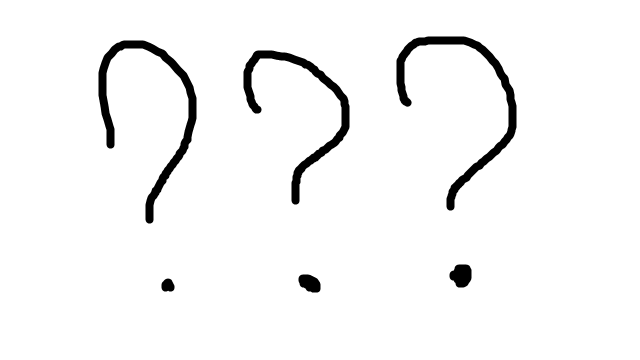
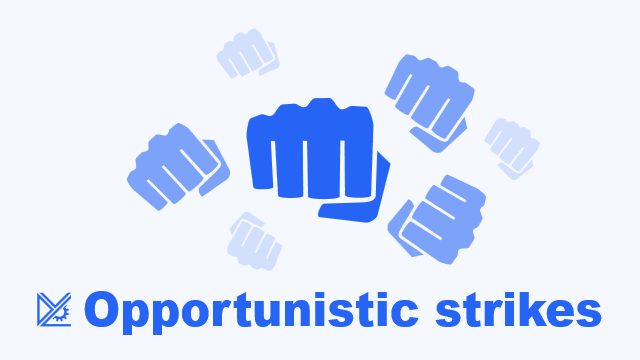
Version 1.0

Changed region(s): [[0.0312, 0.0611, 0.9375, 0.9472], [0.3438, 0.5806, 0.4375, 0.7639]]

diff --git a/OpportunisticStrikes/Source/Stats/StatWorker_OSDPS.cs b/OpportunisticStrikes/Source/Stats/StatWorker_OSDPS.cs
@@ -233,6 +233,9 @@ namespace OpportunisticStrikes.Stats
             float hitChanceFull = hitChanceAlmostFull + hcd * hitChance;
             float comboCooldown = OSSettings.TicksBetweenOSVerbs / (float)OSSettings.ticksPerSecond;
 
+            // Added "normalize chance to baseline cooldown's value" option after I was done with all the math here, and have zero desire to redo it. So lets hope that this will be close to actual numbers...
+            float verbChanceMult = AverageChanceNormalizedMult(verbEntries);
+            
             #region See GetValueUnfinalized
 
             //AverageDamage = v1Damage * (v1OSChance / VerbsTotal * (hitChance + hitChance2 + hitChance3) + v1Chance * (1 - v1OSChance) * hitChance)
@@ -248,7 +251,7 @@ namespace OpportunisticStrikes.Stats
             foreach (VerbEntry verbEntry in verbEntries) {
                 Verb verb = verbEntry.verb;
                 float verbSelectionChance = verbEntry.GetSelectionWeight(null);
-                float verbOSChance = verb.VerbChanceInCombo();
+                float verbOSChance = verb.VerbChanceInCombo() * verbChanceMult;
                 AverageDamage += verb.verbProps.AdjustedMeleeDamageAmount(verb, pawn)
                                  * (verbOSChance / VerbsTotal * hitChanceFull + verbSelectionChance * (1 - verbOSChance) * hitChance);
                 AverageCooldown += verb.verbProps.AdjustedCooldownTicks(verb, pawn) / (float)OSSettings.ticksPerSecond * verbSelectionChance;
@@ -269,6 +272,9 @@ namespace OpportunisticStrikes.Stats
             float hitChance = pawn.GetStatValue(StatDefOf.MeleeHitChance);
             float comboCooldown = OSSettings.TicksBetweenOSVerbs / (float)OSSettings.ticksPerSecond;
 
+            // Added "normalize chance to baseline cooldown's value" option after I was done with all the math here, and have zero desire to redo it. So lets hope that this will be close to actual numbers...
+            float verbChanceMult = AverageChanceNormalizedMult(verbEntries);
+
             #region See GetValueUnfinalized
 
             // AvgDamage = (v1Damage * (v1OSChance + v1Chance - v1Chance * v1OSChance)
@@ -284,7 +290,7 @@ namespace OpportunisticStrikes.Stats
             foreach (VerbEntry verbEntry in verbEntries) {
                 Verb verb = verbEntry.verb;
                 float verbSelectionChance = verbEntry.GetSelectionWeight(null);
-                float verbOSChance = verb.VerbChanceInCombo();
+                float verbOSChance = verb.VerbChanceInCombo() * verbChanceMult;
                 AverageDamage += verb.verbProps.AdjustedMeleeDamageAmount(verb, pawn)
                                  * (verbSelectionChance + verbOSChance - verbSelectionChance * verbOSChance);
                 AverageCooldown += verb.verbProps.AdjustedCooldownTicks(verb, pawn) / (float)OSSettings.ticksPerSecond * verbSelectionChance;
@@ -298,30 +304,45 @@ namespace OpportunisticStrikes.Stats
         public float CustomDraw(Rect rect, StatRequest request)
         {
             if (!(request.Thing is Pawn pawn && pawn.PawnCanOS())) return 0;
-            List<Verb> allMeleeVerbs = pawn.meleeVerbs
-                .GetUpdatedAvailableVerbsList(false)
+            List<VerbEntry> verbEntries = pawn.meleeVerbs.GetUpdatedAvailableVerbsList(false);
+            List<Verb> allMeleeVerbs = verbEntries
                 .Select(x => x.verb)
                 .Where(x => !(x is Verb_OpportunisticStrike))
                 .ToList();
 
+            // Added "normalize chance to baseline cooldown's value" option after I was done with all the math here, and have zero desire to redo it. So lets hope that this will be close to actual numbers...
+            float verbChanceMult = AverageChanceNormalizedMult(verbEntries);
             List<TableDataGetter<Verb>> tableDataGetterList = new List<TableDataGetter<Verb>>
             {
                 //new TableDataGetter<Verb>("Chance",  v => (v.VerbChanceInCombo() * 100).ToString("0.##") + "%"), // Somehow this line fries ReSharper brains...
-                new TableDataGetter<Verb>("Chance", v => $"{v.VerbChanceInCombo() * 100:0.##}%"),
-                new TableDataGetter<Verb>("Dmg",  v => v.verbProps.AdjustedMeleeDamageAmount(v,pawn).ToString("0.##")),
-                new TableDataGetter<Verb>("Tool",  v => v.tool != null ? v.tool.label : ""),
-                new TableDataGetter<Verb>("Source", v =>
+                new TableDataGetter<Verb>("ColumnHeader_Chance".Translate(), v => $"{v.VerbChanceInCombo() * verbChanceMult * 100:0.##}%"),
+                new TableDataGetter<Verb>("ColumnHeader_Damage".Translate(),  v => v.verbProps.AdjustedMeleeDamageAmount(v,pawn).ToString("0.##")),
+                new TableDataGetter<Verb>("ColumnHeader_Tool".Translate(),  v => v.tool != null ? v.tool.label : ""),
+                new TableDataGetter<Verb>("ColumnHeader_Source".Translate(), v =>
                 {
-                    if (v.HediffSource != null) return "Hediff: " + v.HediffSource.Label;
-                    if (v.EquipmentSource != null) return "Equipment: " + v.EquipmentSource.LabelNoParenthesisCap;
-                    if (v.DirectOwner is Pawn verbOwner) return "Body: " + verbOwner.RaceProps.body.LabelCap;
-                    return "Unknown";
+                    if (v.HediffSource != null) return "SourceType_Hediff".Translate() + ": " + v.HediffSource.Label;
+                    if (v.EquipmentSource != null) return "SourceType_Equipment".Translate() + ": " + v.EquipmentSource.LabelNoParenthesisCap;
+                    if (v.DirectOwner is Pawn verbOwner) return "SourceType_Body".Translate() + ": " + verbOwner.RaceProps.body.LabelCap;
+                    return "SourceType_Unknown".Translate();
                 })
             };
 
             Rect tableRect = Drawing.DrawTable(rect, allMeleeVerbs, tableDataGetterList);
+
             return tableRect.height;
             // return Drawing.DrawTable(rect, allMeleeVerbs, tableDataGetterList).height; // Also fries ReSharper brain...
+        }
+
+        protected float AverageChanceNormalizedMult(List<VerbEntry> verbEntries)
+        {
+            if (!OSSettings.NormalizeChanceToBaselineCooldown) return 1;
+            float avgCooldown = 0;
+            foreach (var verbEntry in verbEntries)
+            {
+                Verb verb = verbEntry.verb;
+                avgCooldown += verbEntry.GetSelectionWeight(null) * verb.verbProps.AdjustedCooldownTicks(verb, verb.CasterPawn);
+            }
+            return OSSettings.VerbChanceNormalizedMult((int)Math.Round(avgCooldown));
         }
     }
 }

diff --git a/OpportunisticStrikes/Source/Settings/OSSettings.cs b/OpportunisticStrikes/Source/Settings/OSSettings.cs
@@ -28,10 +28,10 @@ namespace OpportunisticStrikes.Settings
         public static bool ShowOSDPSinStats => showOSDPSinStats;
 
         protected static bool normalizeChanceToBaselineCooldown = normalizeChanceToBaselineCooldownDefault;
+        public static bool NormalizeChanceToBaselineCooldown => normalizeChanceToBaselineCooldown;
         protected static int baselineCooldownTicks = baselineCooldownTicksDefault;
         protected const int baselineCooldownTicksMin = 30;
         protected const int baselineCooldownTicksMax = 240;
-
 
         protected static List<MeleeAttackResult> interruptions;
         protected static bool interruptOnMiss = interruptOnMissDefault;
@@ -46,14 +46,13 @@ namespace OpportunisticStrikes.Settings
         protected static string oSVerbMark = OSVerbMarkDefault;
         public static string OSVerbMark => oSVerbMark;
 
-
         public const int ticksPerSecond = 60;
         protected float cachedWorkAreaHeight = 0;
         protected Vector2 currentScrollPosition = Vector2.zero;
         protected Listing_Standard listing = new Listing_Standard();
-        protected const float checkboxLabelPct = 0.5f;
+        protected const float checkboxLabelPct = 0.55f;
         protected const float sliderValueLabelPct = 0.04f;
-        protected const float sliderNamedValueLabelPct = 0.13f;
+        protected const float sliderNamedValueLabelPct = 0.15f;
         protected const float gapLineHeight = 12;
 
         #region Default Values
@@ -63,7 +62,7 @@ namespace OpportunisticStrikes.Settings
         protected const float verbChanceAtMelee20Default = 10;
         protected const bool ignoreTooFastAttacksDefault = true;
         protected const float tooFastMultDefault = 2;
-        protected const bool normalizeChanceToBaselineCooldownDefault = false;
+        protected const bool normalizeChanceToBaselineCooldownDefault = true;
         protected const int baselineCooldownTicksDefault = 120;
         protected const bool showOSDPSinStatsDefault = true;
         protected const bool interruptOnMissDefault = true;
@@ -149,7 +148,10 @@ namespace OpportunisticStrikes.Settings
             listing.CheckboxLabeled("IgnoreTooFastAttacksDescription".Translate(), ref ignoreTooFastAttacks, labelPct: checkboxLabelPct);
             
             if (ignoreTooFastAttacks) {
+                GameFont oldFont = Text.Font;
+                Text.Font = GameFont.Tiny;
                 listing.Label("WhatIsTooFastDescription".Translate());
+                Text.Font = oldFont;
                 tooFastMult = (float)Math.Round(listing.SliderLabeled("MultDescription".Translate() + $"{tooFastMult}", tooFastMult, 1, 10, sliderNamedValueLabelPct), 1);
                 UpdateTooFastAttacks();
             }
@@ -201,7 +203,10 @@ namespace OpportunisticStrikes.Settings
             listing.CheckboxLabeled("MarkOSVerbsInCombatLog".Translate(), ref markOSVerbsInCombatLog, labelPct: checkboxLabelPct);
             if (markOSVerbsInCombatLog)
             {
+                GameFont oldFont = Text.Font;
+                Text.Font = GameFont.Tiny;
                 listing.Label("VerbMarkInCombatLogComment".Translate());
+                Text.Font = oldFont;
                 string oSVerbMarkPrev = oSVerbMark;
                 oSVerbMark = listing.TextEntryLabeled("VerbMarkInCombatLog".Translate(), OSVerbMark, 0.25f);
                 oSVerbMark = OSVerbMark.Replace("[", "").Replace("]", "");
@@ -237,8 +242,6 @@ namespace OpportunisticStrikes.Settings
         {
             return ignoreTooFastAttacks && verb.verbProps.AdjustedCooldownTicks(verb, verb.CasterPawn) <= attackTooFastThreshold;
         }
-
-
 
         public void ResetToDefaults()
         {

diff --git a/OpportunisticStrikes/Source/Verb_OpportunisticStrike.cs b/OpportunisticStrikes/Source/Verb_OpportunisticStrike.cs
@@ -39,15 +39,12 @@ namespace OpportunisticStrikes
                 && !OSSettings.InterruptingResult(pawnLastAttackResult);
             attacksMade++;
             comboIsFinished = !successfulHit || AttacksRemaining == 0;
-            Log.Message($"Verb_OpportunisticStrike.TryCastShot. {CasterPawn} used attack №{attacksMade}: {verb}. Result: {pawnLastAttackResult}. comboIsFinished: {comboIsFinished}");
             return successfulHit;
         }
 
         public void FollowUpLogic(Verb_MeleeAttack initiatingVerb)
         {
-            Log.Message($"Verb_OpportunisticStrike.FollowUpLogic: {initiatingVerb}");
             if (comboIsFinished) { // Finalize AoO if it was the last verb of combo
-                Log.Message($"Verb_OpportunisticStrike.FollowUpLogic: Finalizing AoA");
                 if (!(originalStance is null)) CasterPawn.stances.SetStance(originalStance); // cooldown of combo is cooldown of initiating attack
                 Reset();
                 return;
@@ -71,10 +68,6 @@ namespace OpportunisticStrikes
             originalStance = CasterPawn.stances.curStance;
             // Stance_Warmup can be interrupted by player, resetting cooldown. So had to make custom one.
             CasterPawn.stances.SetStance(new Stance_CooldownWithFollowUp(TicksBetweenBurstShots, initiatingVerb.CurrentTarget, this));
-            Log.Message($"Verb_OpportunisticStrike.TryStartFollowUp: {CasterPawn}. " +
-                        $"Chance: {OSSettings.VerbChanceFromSkill(CasterPawn.skills?.GetSkill(SkillDefOf.Melee)?.GetLevel() ?? 0)}%. " +
-                        $"Verbs: {verbs.Count}. " +
-                        $"Initiated by {initiatingVerb}");
             return true;
         }
 
